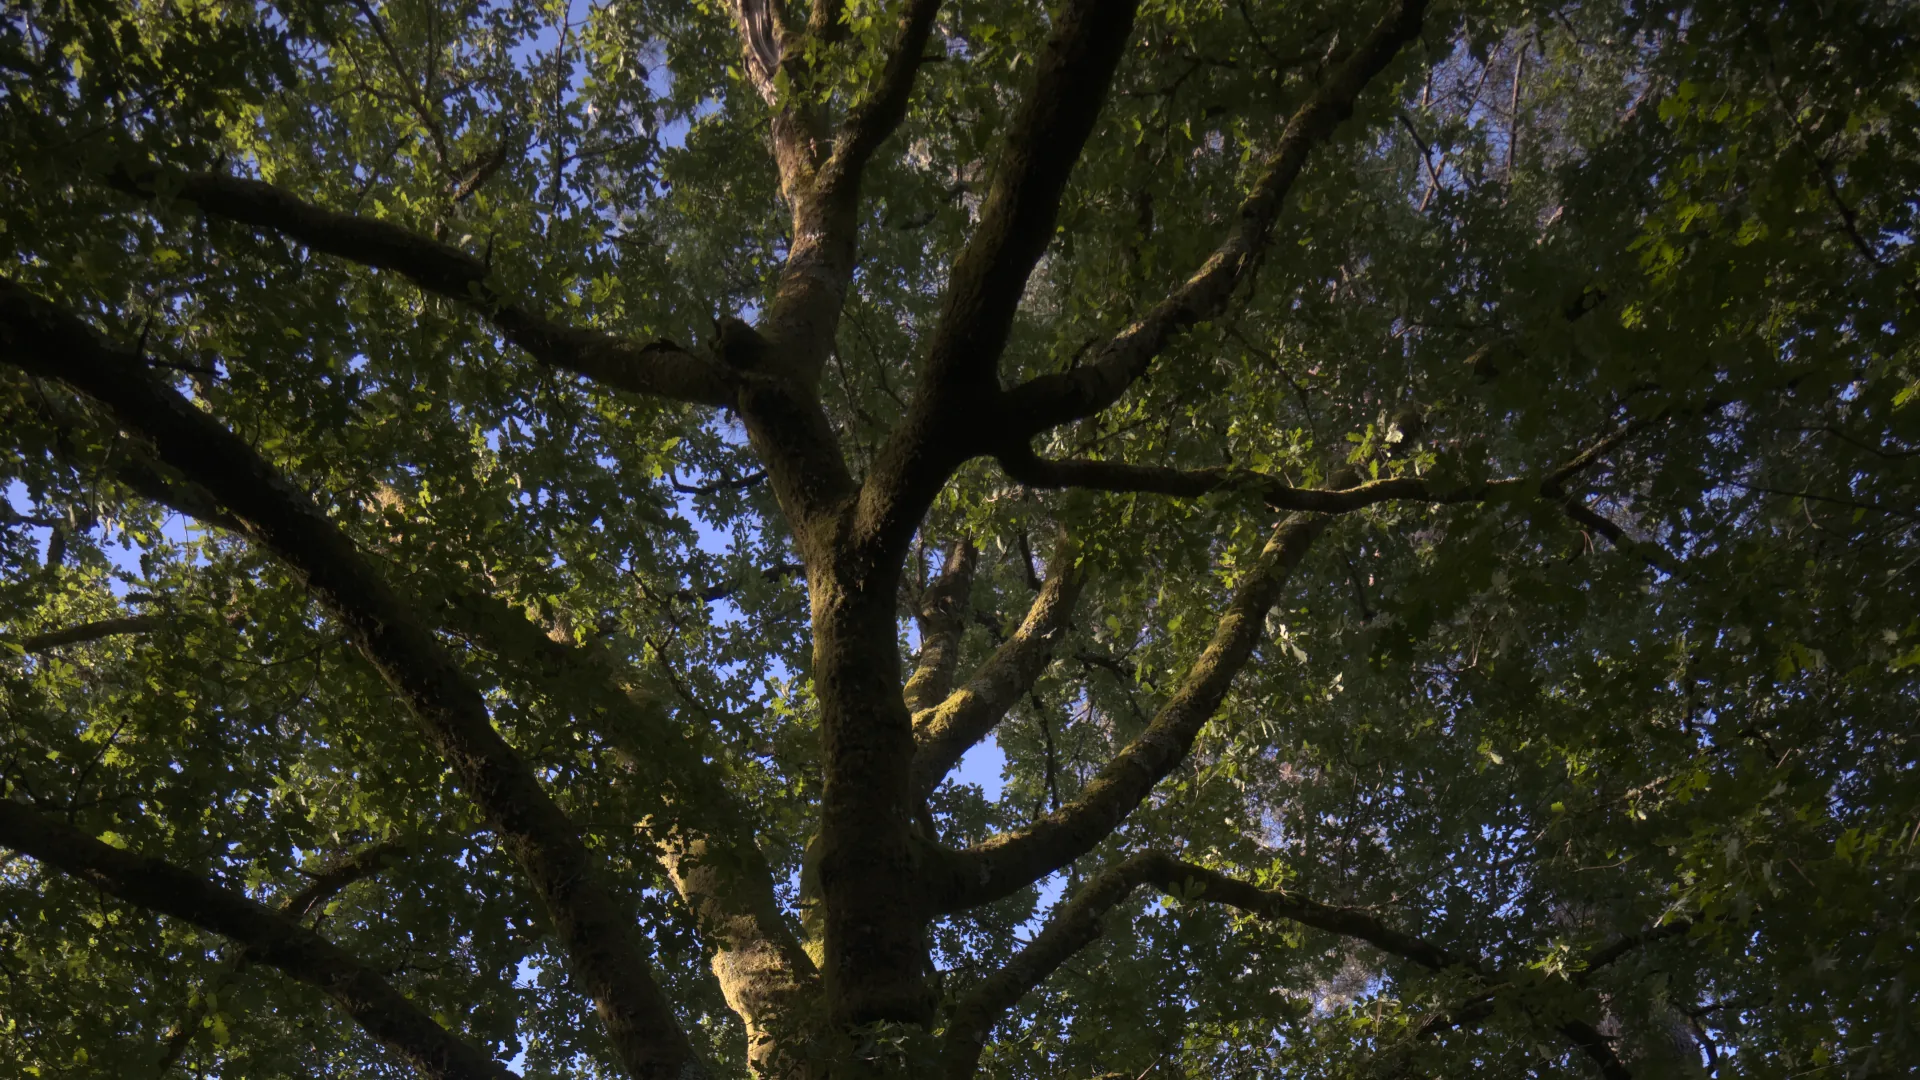
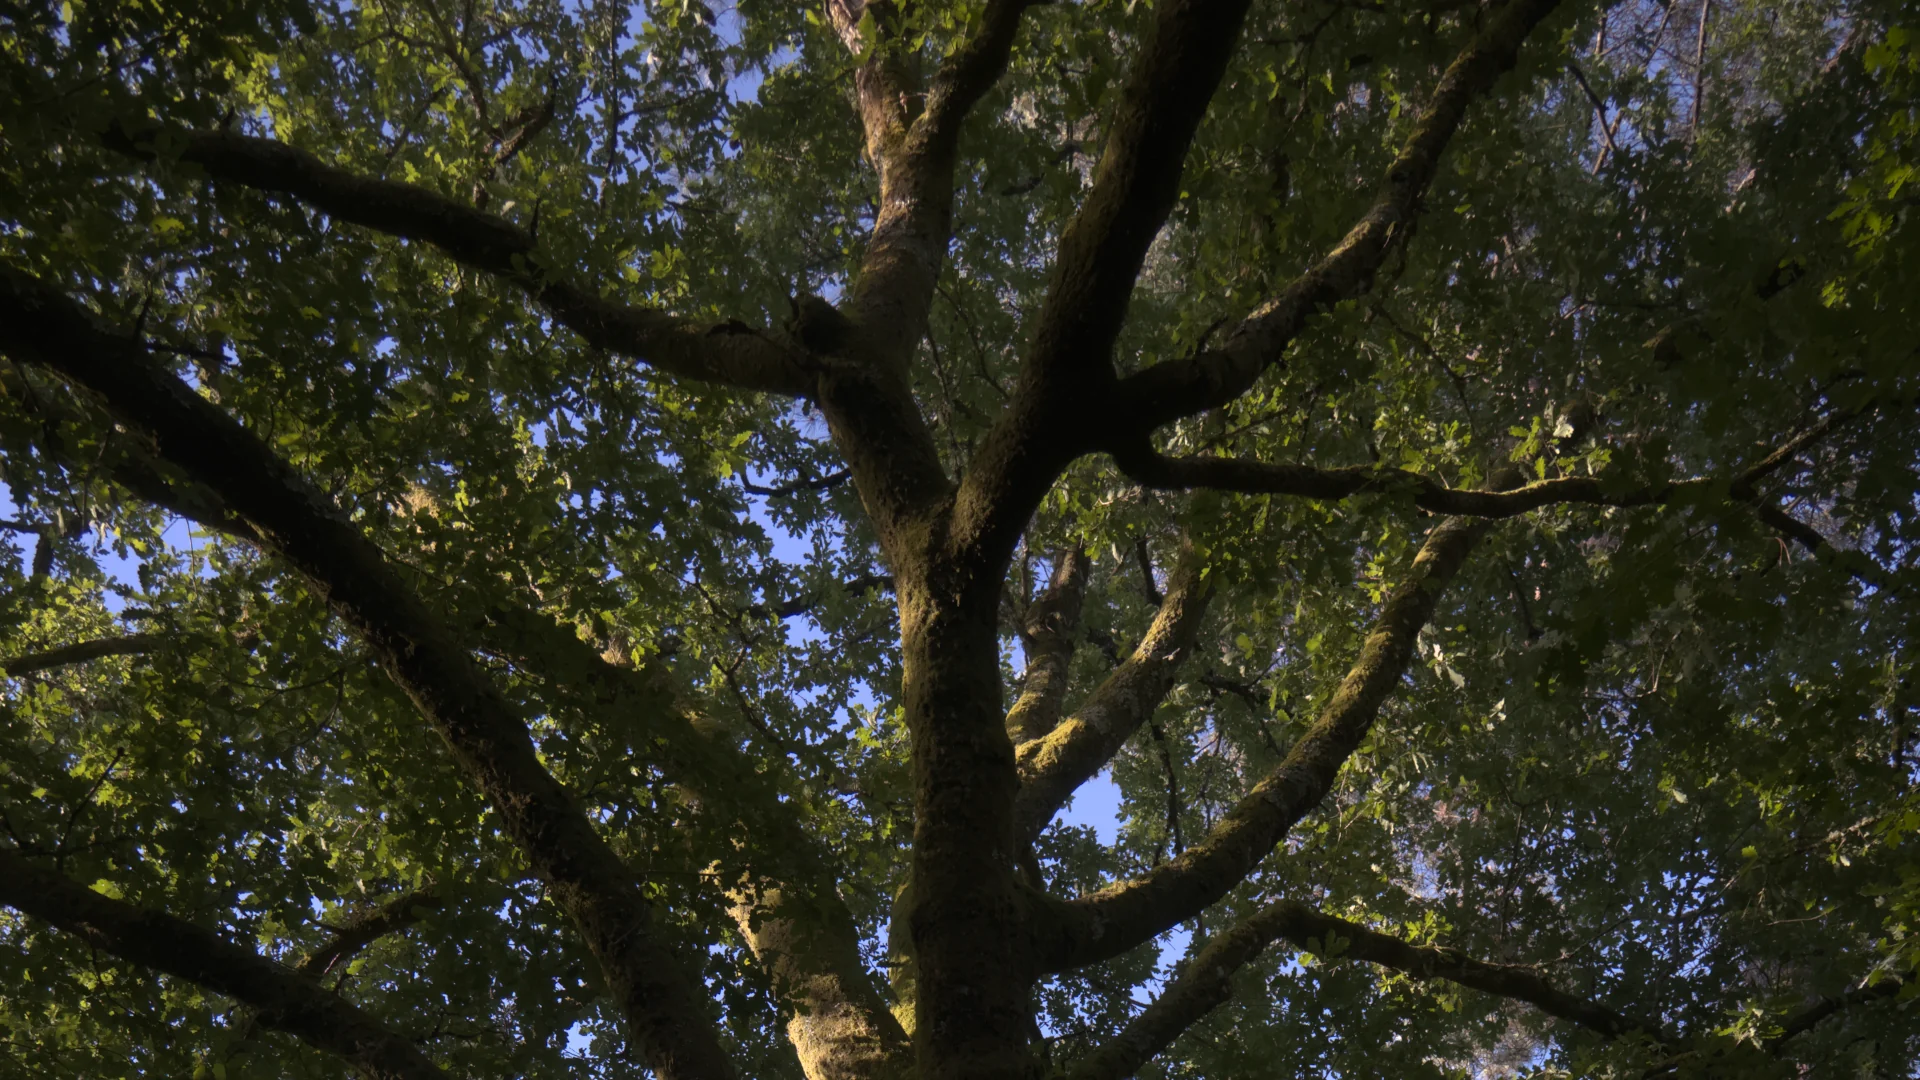
Introduccion icono navegador

diff --git a/carrito.html b/carrito.html
@@ -4,6 +4,7 @@
   <meta charset="UTF-8">
   <meta name="viewport" content="width=device-width, initial-scale=1.0">
   <title>Carrito — Artesanía en Cuero</title>
+  <link rel="icon" type="image/x-icon" href="favicon.ico">
   <link rel="stylesheet" href="css/styles.css">
   <link rel="stylesheet" href="css/carrito.css">
 </head>

diff --git a/catalogo.html b/catalogo.html
@@ -4,6 +4,7 @@
   <meta charset="UTF-8">
   <meta name="viewport" content="width=device-width, initial-scale=1.0">
   <title>Catálogo — Artesanía en Cuero</title>
+  <link rel="icon" type="image/x-icon" href="favicon.ico">
   <link rel="stylesheet" href="css/styles.css">
   <link rel="stylesheet" href="css/catalogo.css">
 </head>

diff --git a/contacto.html b/contacto.html
@@ -4,6 +4,7 @@
   <meta charset="UTF-8">
   <meta name="viewport" content="width=device-width, initial-scale=1.0">
   <title>Contacto — Artesanía en Cuero</title>
+  <link rel="icon" type="image/x-icon" href="favicon.ico">
   <link rel="stylesheet" href="css/styles.css">
   <link rel="stylesheet" href="css/contacto.css">
 </head>

diff --git a/index.html b/index.html
@@ -4,6 +4,7 @@
   <meta charset="UTF-8">
   <meta name="viewport" content="width=device-width, initial-scale=1.0">
   <title>Artesanía en Cuero</title>
+  <link rel="icon" type="image/x-icon" href="favicon.ico">
   <link rel="stylesheet" href="css/styles.css">
 </head>
 <body>

diff --git a/producto.html b/producto.html
@@ -4,6 +4,7 @@
   <meta charset="UTF-8">
   <meta name="viewport" content="width=device-width, initial-scale=1.0">
   <title>Cartera clásica — Artesanía en Cuero</title>
+  <link rel="icon" type="image/x-icon" href="favicon.ico">
   <link rel="stylesheet" href="css/styles.css">
   <link rel="stylesheet" href="css/producto.css">
 </head>